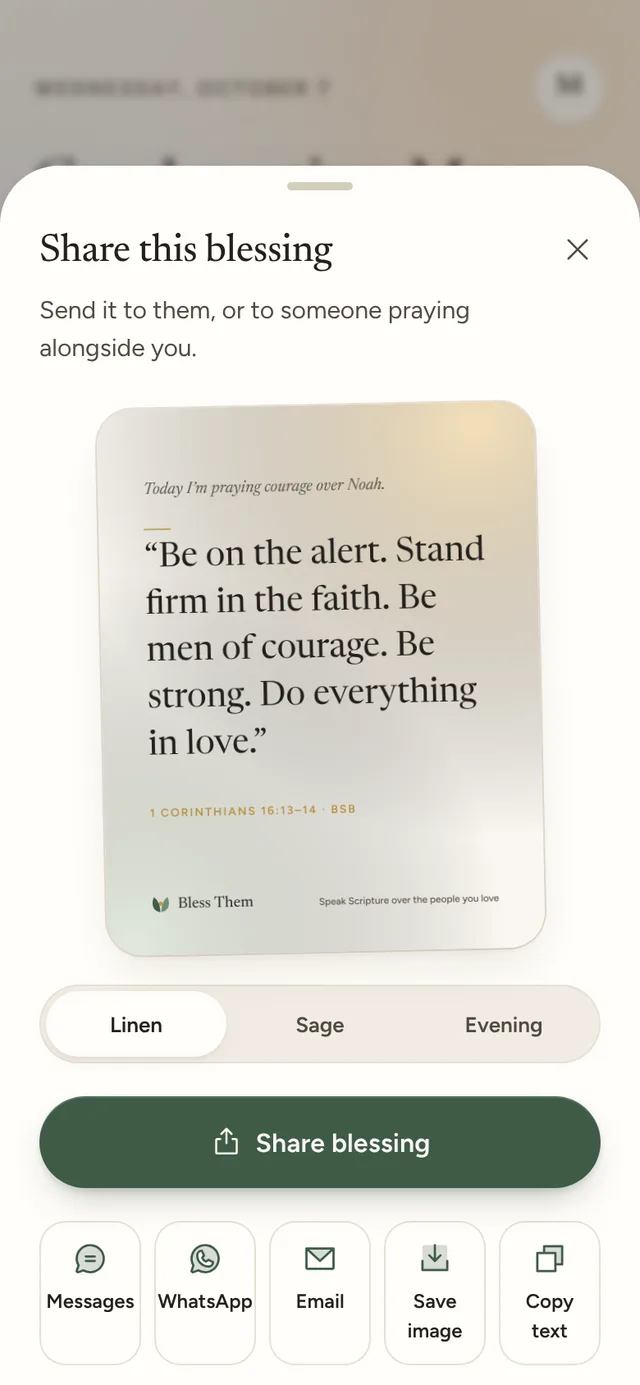
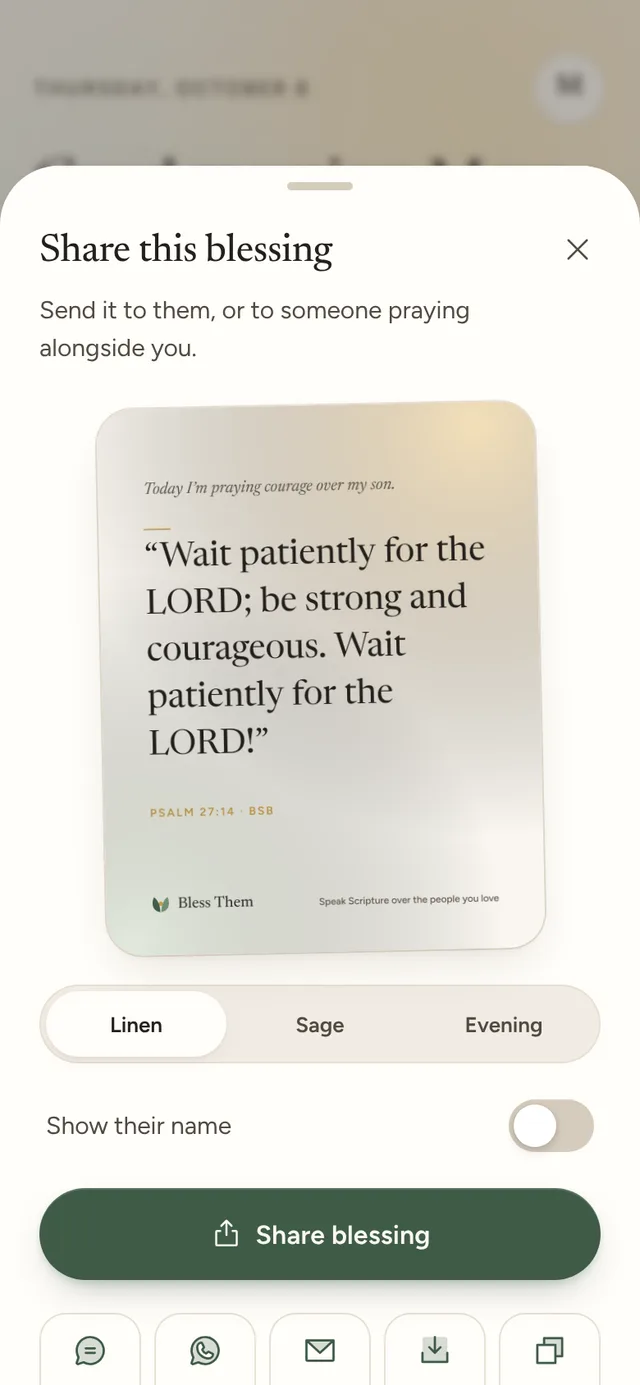
Refresh screenshots with the current app
Re-captured every README image from the latest build. Adds prayer
journeys and Pip asleep after a night prayer, shows the share card with
the name switched off, and puts the desktop view in the gallery.

Claude-Session: https://claude.ai/code/session_01UVKBGXu5gupQMF68So8fVg

diff --git a/README.md b/README.md
@@ -7,7 +7,7 @@
 <p align="center"><em>Speak Scripture over the people you love.</em></p>
 
 <p align="center">
-  <img src="docs/screenshots/first-blessing.webp" width="240" alt="A personalized blessing for Noah, with Joshua 1:9 and a blessing written in his name">
+  <img src="docs/screenshots/first-blessing.webp" width="240" alt="A personalized blessing for Noah, with Psalm 27:14 and a blessing written in his name">
   &nbsp;
   <img src="docs/screenshots/today.webp" width="240" alt="The Today screen: choosing who to bless, an upcoming birthday, and today’s blessing for Noah">
   &nbsp;
@@ -44,7 +44,7 @@ Bless Them is not a Bible reader, a streak machine or an AI oracle. It never inv
     <td align="center"><img src="docs/screenshots/welcome.webp" width="200" alt="Welcome screen with Pip"><br><sub>Welcome</sub></td>
     <td align="center"><img src="docs/screenshots/onboarding-topics.webp" width="200" alt="Choosing what to pray about"><br><sub>A blessing before an account</sub></td>
     <td align="center"><img src="docs/screenshots/reading-view-night.webp" width="200" alt="The blessing moment at night"><br><sub>The blessing moment</sub></td>
-    <td align="center"><img src="docs/screenshots/share-card.webp" width="200" alt="A share card"><br><sub>Share cards</sub></td>
+    <td align="center"><img src="docs/screenshots/share-card.webp" width="200" alt="A share card with the name switched off: Today I’m praying courage over my son"><br><sub>Share cards</sub></td>
   </tr>
   <tr>
     <td align="center"><img src="docs/screenshots/library.webp" width="200" alt="The topic library"><br><sub>Library</sub></td>
@@ -57,6 +57,11 @@ Bless Them is not a Bible reader, a streak machine or an AI oracle. It never inv
     <td align="center"><img src="docs/screenshots/paywall.webp" width="200" alt="The Bless Them+ paywall"><br><sub>An honest paywall</sub></td>
     <td align="center"><img src="docs/screenshots/safety.webp" width="200" alt="Crisis support shown before Scripture"><br><sub>Help comes first</sub></td>
     <td align="center"><img src="docs/screenshots/today-dark.webp" width="200" alt="Today in dark mode"><br><sub>Dark mode</sub></td>
+  </tr>
+  <tr>
+    <td align="center"><img src="docs/screenshots/journeys.webp" width="200" alt="Prayer journeys, from 7 Days of Courage to 7 Days of Peace Before Bed"><br><sub>Prayer journeys</sub></td>
+    <td align="center"><img src="docs/screenshots/pip-asleep.webp" width="200" alt="After a late-night prayer, Pip falls asleep beside Covered in prayer today"><br><sub>Pip, after a night prayer</sub></td>
+    <td align="center" colspan="2"><img src="docs/screenshots/desktop.webp" width="420" alt="Today on a desktop browser, with the sidebar navigation"><br><sub>Desktop</sub></td>
   </tr>
 </table>
 
